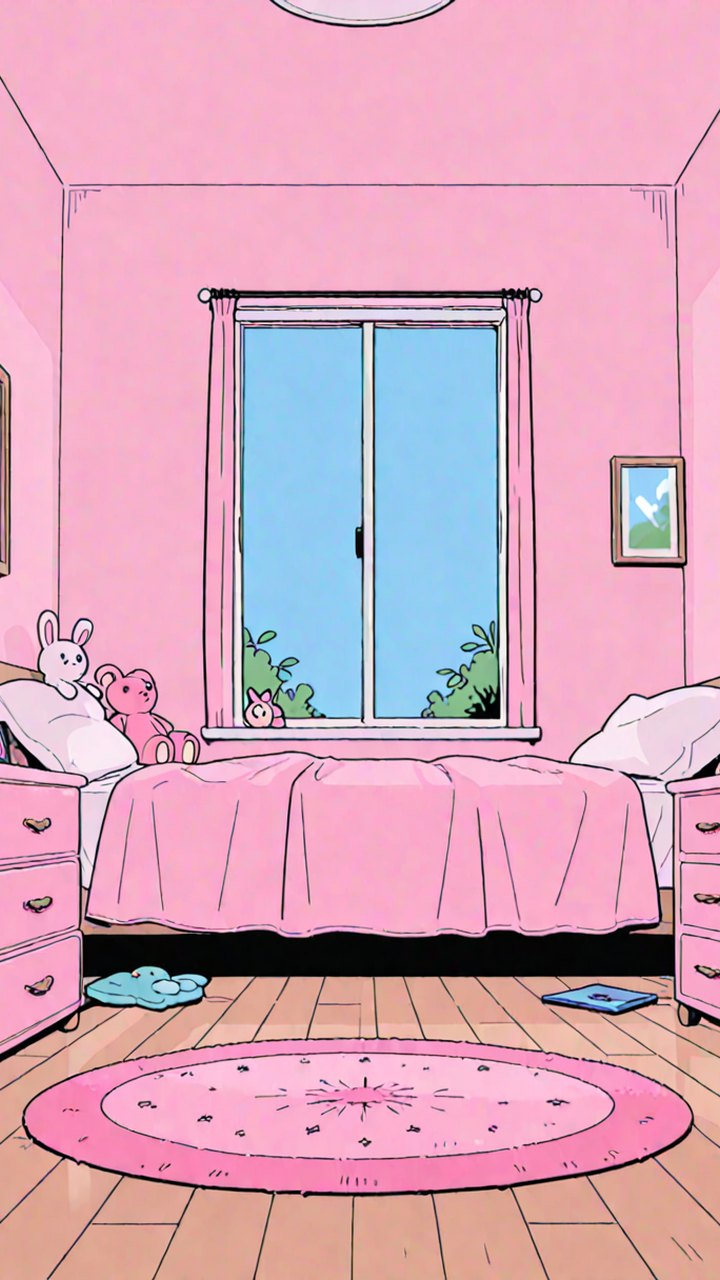
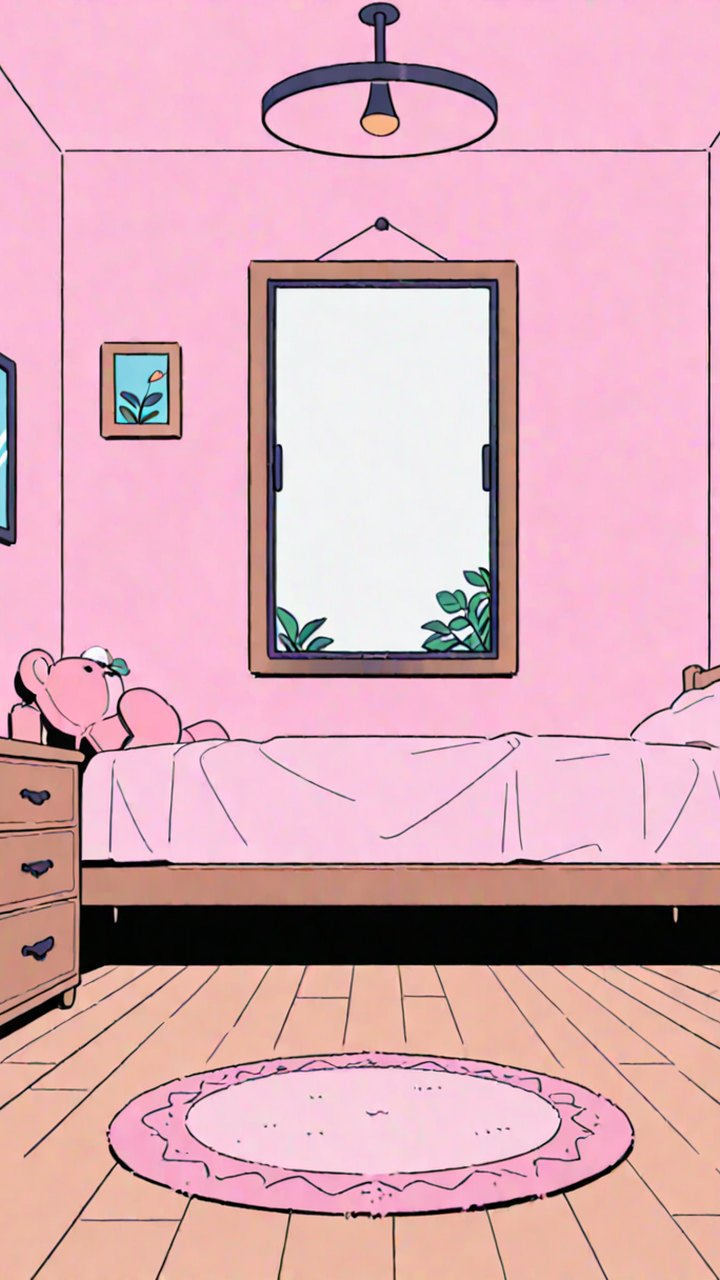
恋愛ゲーム画面メーカー: 背景をアニメ背景の絵柄に／効果はキャラだけ
- 背景13枚を E案（アニメ背景でくっきり）で作り直し
- 生成後に1枚ずつ確認し、黒いクマ・真っ黒な天井・家具が潰れた宿屋の3枚を作りなおした
- びくっ／ぶるぶるを画面全体ではなくキャラだけに。MP4側も同じ

diff --git a/lab/tools/koi-scene/index.html b/lab/tools/koi-scene/index.html
@@ -77,21 +77,25 @@ button,input,select,textarea{font:inherit;color:inherit}
 /* セリフとキャラと背景だけにする */
 #app.clean #bar,#app.clean #playTools{display:none}
 
-/* びっくり効果 */
-#play.fxJolt{animation:fxJolt .42s cubic-bezier(.2,1.6,.4,1)}
+/* びっくり効果（キャラだけ動く） */
+#chImg{transform-origin:50% 100%}
+#chImg.fxJolt{animation:fxJolt .42s cubic-bezier(.2,1.6,.4,1)}
 @keyframes fxJolt{
-  0%{transform:translate(0,0) scale(1)}
-  12%{transform:translate(0,-9px) scale(1.025)}
-  30%{transform:translate(4px,3px) scale(1)}
-  46%{transform:translate(-3px,0)}
-  62%{transform:translate(2px,1px)}
-  100%{transform:translate(0,0)}}
-#play.fxShake{animation:fxShake .55s linear}
+  0%{transform:translateX(-50%)}
+  12%{transform:translateX(-50%) translateY(-14px) scale(1.04)}
+  30%{transform:translateX(-50%) translateY(2px) scale(.99)}
+  46%{transform:translateX(-50%) translateY(-4px) scale(1.01)}
+  62%{transform:translateX(-50%) translateY(1px)}
+  100%{transform:translateX(-50%)}}
+#chImg.fxShake{animation:fxShake .55s linear}
 @keyframes fxShake{
-  0%,100%{transform:translate(0,0)}
-  10%{transform:translate(-4px,1px)}25%{transform:translate(4px,-1px)}
-  40%{transform:translate(-3px,-1px)}55%{transform:translate(3px,1px)}
-  70%{transform:translate(-2px,0)}85%{transform:translate(2px,0)}}
+  0%,100%{transform:translateX(-50%)}
+  10%{transform:translateX(-50%) translate(-5px,1px)}
+  25%{transform:translateX(-50%) translate(5px,-1px)}
+  40%{transform:translateX(-50%) translate(-4px,-1px)}
+  55%{transform:translateX(-50%) translate(4px,1px)}
+  70%{transform:translateX(-50%) translate(-3px,0)}
+  85%{transform:translateX(-50%) translate(3px,0)}}
 
 /* いち合わせ */
 #app.placing #win,#app.placing #playTools{display:none}
@@ -436,9 +440,9 @@ function placeCh(){
 }
 /* ---------- びっくり効果 ---------- */
 function fire(fx){
-  var p=$('#play'); p.classList.remove('fxJolt','fxShake');
-  if(!fx)return; void p.offsetWidth;
-  p.classList.add(fx==='shake'?'fxShake':'fxJolt');
+  var el=$('#chImg'); el.classList.remove('fxJolt','fxShake');
+  if(!fx)return; void el.offsetWidth;
+  el.classList.add(fx==='shake'?'fxShake':'fxJolt');
 }
 function showPage(){ type(pages[page]) }
 function type(t){
@@ -788,7 +792,7 @@ var FONT='"M PLUS Rounded 1c","Hiragino Maru Gothic ProN",sans-serif';
 function fxOffset(fx,p){
   if(!fx||p<0||p>1)return[0,0,1];
   if(fx==='shake'){var a=(1-p)*4;return[Math.sin(p*Math.PI*10)*a,Math.sin(p*Math.PI*13)*a*.4,1]}
-  if(p<.12)return[0,-9*(p/.12),1+.025*(p/.12)];
+  if(p<.12)return[0,-14*(p/.12),1+.04*(p/.12)];
   var q=(p-.12)/.88;
   return[Math.sin(q*Math.PI*4)*4*(1-q),3*(1-q)*Math.cos(q*Math.PI*3),1+.025*(1-q)*0.4];
 }
@@ -796,14 +800,15 @@ function paint(sc,bgIm,chIm,lines,shown,total,veilA,fx,fp){
   CX.setTransform(SCALE,0,0,SCALE,0,0);
   CX.clearRect(0,0,VW,VH);
   CX.fillStyle='#000';CX.fillRect(0,0,VW,VH);
-  var o=fxOffset(fx,fp);
-  CX.save();
-  CX.translate(VW/2+o[0],VH/2+o[1]);CX.scale(o[2],o[2]);CX.translate(-VW/2,-VH/2);
   cover(bgIm,0,0,VW,VH);
   if(chIm&&chIm.width){
+    var o=fxOffset(fx,fp);
     var h=VH*0.88*(sc.s==null?1:sc.s),w=chIm.width*(h/chIm.height);
     var cx=VW*(sc.x==null?.5:sc.x),by=VH-h-VH*(sc.y||0);
+    CX.save();
+    CX.translate(cx+o[0],by+h+o[1]);CX.scale(o[2],o[2]);CX.translate(-cx,-(by+h));
     CX.drawImage(chIm,cx-w/2,by,w,h);
+    CX.restore();
   }
   if(veilA>0){CX.fillStyle='rgba(0,0,0,'+veilA+')';CX.fillRect(0,0,VW,VH)}
 
@@ -833,7 +838,6 @@ function paint(sc,bgIm,chIm,lines,shown,total,veilA,fx,fp){
     CX.font='700 13px '+FONT;CX.textAlign='right';
     CX.fillText('▼',wx+ww-12,wy+winH-10);CX.textAlign='left';
   }
-  CX.restore();
 }
 
 function loadIm(src){

diff --git a/lab/tools/koi-scene/_gen_bg.py b/lab/tools/koi-scene/_gen_bg.py
@@ -1,6 +1,6 @@
 # -*- coding: utf-8 -*-
 """恋愛ゲーム画面メーカー用の背景を ComfyUI で生成する。
-絵柄は「太めの線＋フラット塗り＋にじませない」漫画寄り。
+絵柄はアニメ背景でくっきり（太めの線＋セル塗り、にじませない）。
 使い方:  python _gen_bg.py            … 足りないぶんだけ作る
          python _gen_bg.py park inn   … 名前を指定して作りなおす（上書き）
 """
@@ -12,11 +12,11 @@ OUT  = os.path.join(os.path.dirname(os.path.abspath(__file__)), "bg")
 CKPT = "flanimeIllustriousXL_v20.safetensors"   # 線が太くフラットに出るほう
 W, H = 832, 1216
 TW, TH = 720, 1280
-STEPS, CFG = 32, 4.8
+STEPS, CFG = 30, 7.0
 
 STYLE = ("masterpiece, best quality, very aesthetic, absurdres, no humans, scenery, "
-         "shoujo manga illustration background, thick uniform ink outlines, bold lineart, "
-         "flat colors, simple shading, natural harmonious colors, crisp sharp edges, "
+         "anime visual novel background, bold black outlines, thick lineart, clean linework, "
+         "flat cel shading, vivid saturated colors, crisp sharp edges, "
          "eye level view, open floor in the foreground, ")
 
 NEG = ("blurry, soft focus, depth of field, bokeh, hazy, painterly, oil painting, "
@@ -33,13 +33,13 @@ SCENES = [
  ("classroom_day",  1, "indoors, classroom interior, inside a japanese high school classroom, tidy rows of wooden desks and chairs, green blackboard, large windows with curtains, daytime, wide aisle in the foreground", ""),
  ("classroom_dusk", 1, "indoors, classroom interior, empty tidy desks, green blackboard, windows glowing orange at sunset, long shadows on the floor, evening", ""),
  ("my_room",        1, "indoors, cozy teenage bedroom interior, a single bed against the wall covered by one smooth flat bedspread, wooden study desk with a chair, bookshelf, window with curtains, warm room light, evening, tidy and simple", ", blackboard, classroom, desks in rows, messy, crumpled blanket, folded blanket, two blankets, two beds, bunk bed"),
- ("her_room",       1, "indoors, cute girls bedroom interior, neatly made bed with pastel pink bedding, stuffed animals on the bed, dresser with mirror, round rug, daylight from window, tidy", ", blackboard, classroom, messy, two beds"),
- ("hallway",        1, "indoors, japanese school hallway interior, long corridor, tall windows on the left letting in daylight, beige lockers on the right, pale cream walls, light gray linoleum floor, daytime, empty", ", desks, blackboard, blue walls, orange floor, complementary colors, two tone"),
+ ("her_room",       1, "indoors, cute girls bedroom interior, neatly made bed with pastel pink bedding, one cream colored teddy bear, dresser with mirror, round rug, daylight from window, tidy, soft pastel colors", ", blackboard, classroom, messy, two beds, black doll, dark stuffed animal, creepy"),
+ ("hallway",        1, "indoors, japanese school hallway interior, long corridor, tall windows on the left letting in daylight, beige lockers on the right, pale cream walls, white ceiling with fluorescent lights, light gray linoleum floor, daytime, empty", ", desks, blackboard, blue walls, orange floor, complementary colors, two tone, black ceiling, dark ceiling"),
  ("rooftop",        0, "school rooftop, chain link fence along the edge, blue sky with simple white clouds, city buildings far away below, daytime, wide empty concrete floor", ", indoors, ceiling, water tank, tank, bottle, canister, spray can, large object in the center"),
  ("park",           0, "park path, cherry blossom trees, one wooden bench, green lawn, blue sky, daytime", ", indoors, ceiling"),
  ("night_street",   0, "japanese city street at night, street lamps, shop signs, a vending machine, dark blue sky, empty road", ", indoors, ceiling, daylight"),
  ("castle_hall",    1, "indoors, fantasy castle throne hall interior, tall stone pillars, long red carpet, stained glass windows, hanging banners, chandelier", ", modern, desks"),
- ("inn",            1, "indoors, fantasy tavern inn interior, several sturdy wooden tables with chairs around them, stone fireplace with a fire, wooden barrels, hanging lanterns, bright warm cozy light, wooden floor", ", modern, school desks, empty room, dark, gloomy, purple tint"),
+ ("inn",            1, "indoors, fantasy tavern room, a long wooden dining table with wooden chairs standing in the middle of the room, plaster and timber walls, a small window, a fireplace on the left wall, hanging lantern, warm daylight, wooden floor, tidy, simple", ", modern, school desks, empty room, dark, gloomy, purple tint, burning walls, cave, dungeon, stone cellar, vaulted ceiling, clutter"),
  ("forest_path",    0, "fantasy forest, no animals, tall straight trees on both sides, thick green foliage, mossy rocks, ferns, a quiet empty clearing of soft grass in the middle, sunlight from above, natural green and brown colors", ", indoors, ceiling, pink trees, animal, cat, dog, deer, fox, bear, bird, wildlife, fur, tail, paws, creature, mascot, dirt trail, road"),
  ("magic_class",    1, "indoors, magic academy classroom interior, tall arched windows, sturdy wooden desks, stacks of old books, floating candles, fantasy", ", modern, fluorescent light"),
  ("night_hill",     0, "grassy hill at night, starry sky, crescent moon, distant fantasy castle on the horizon, fireflies, empty stone path", ", indoors, ceiling, daylight, animal, figure in the foreground"),
